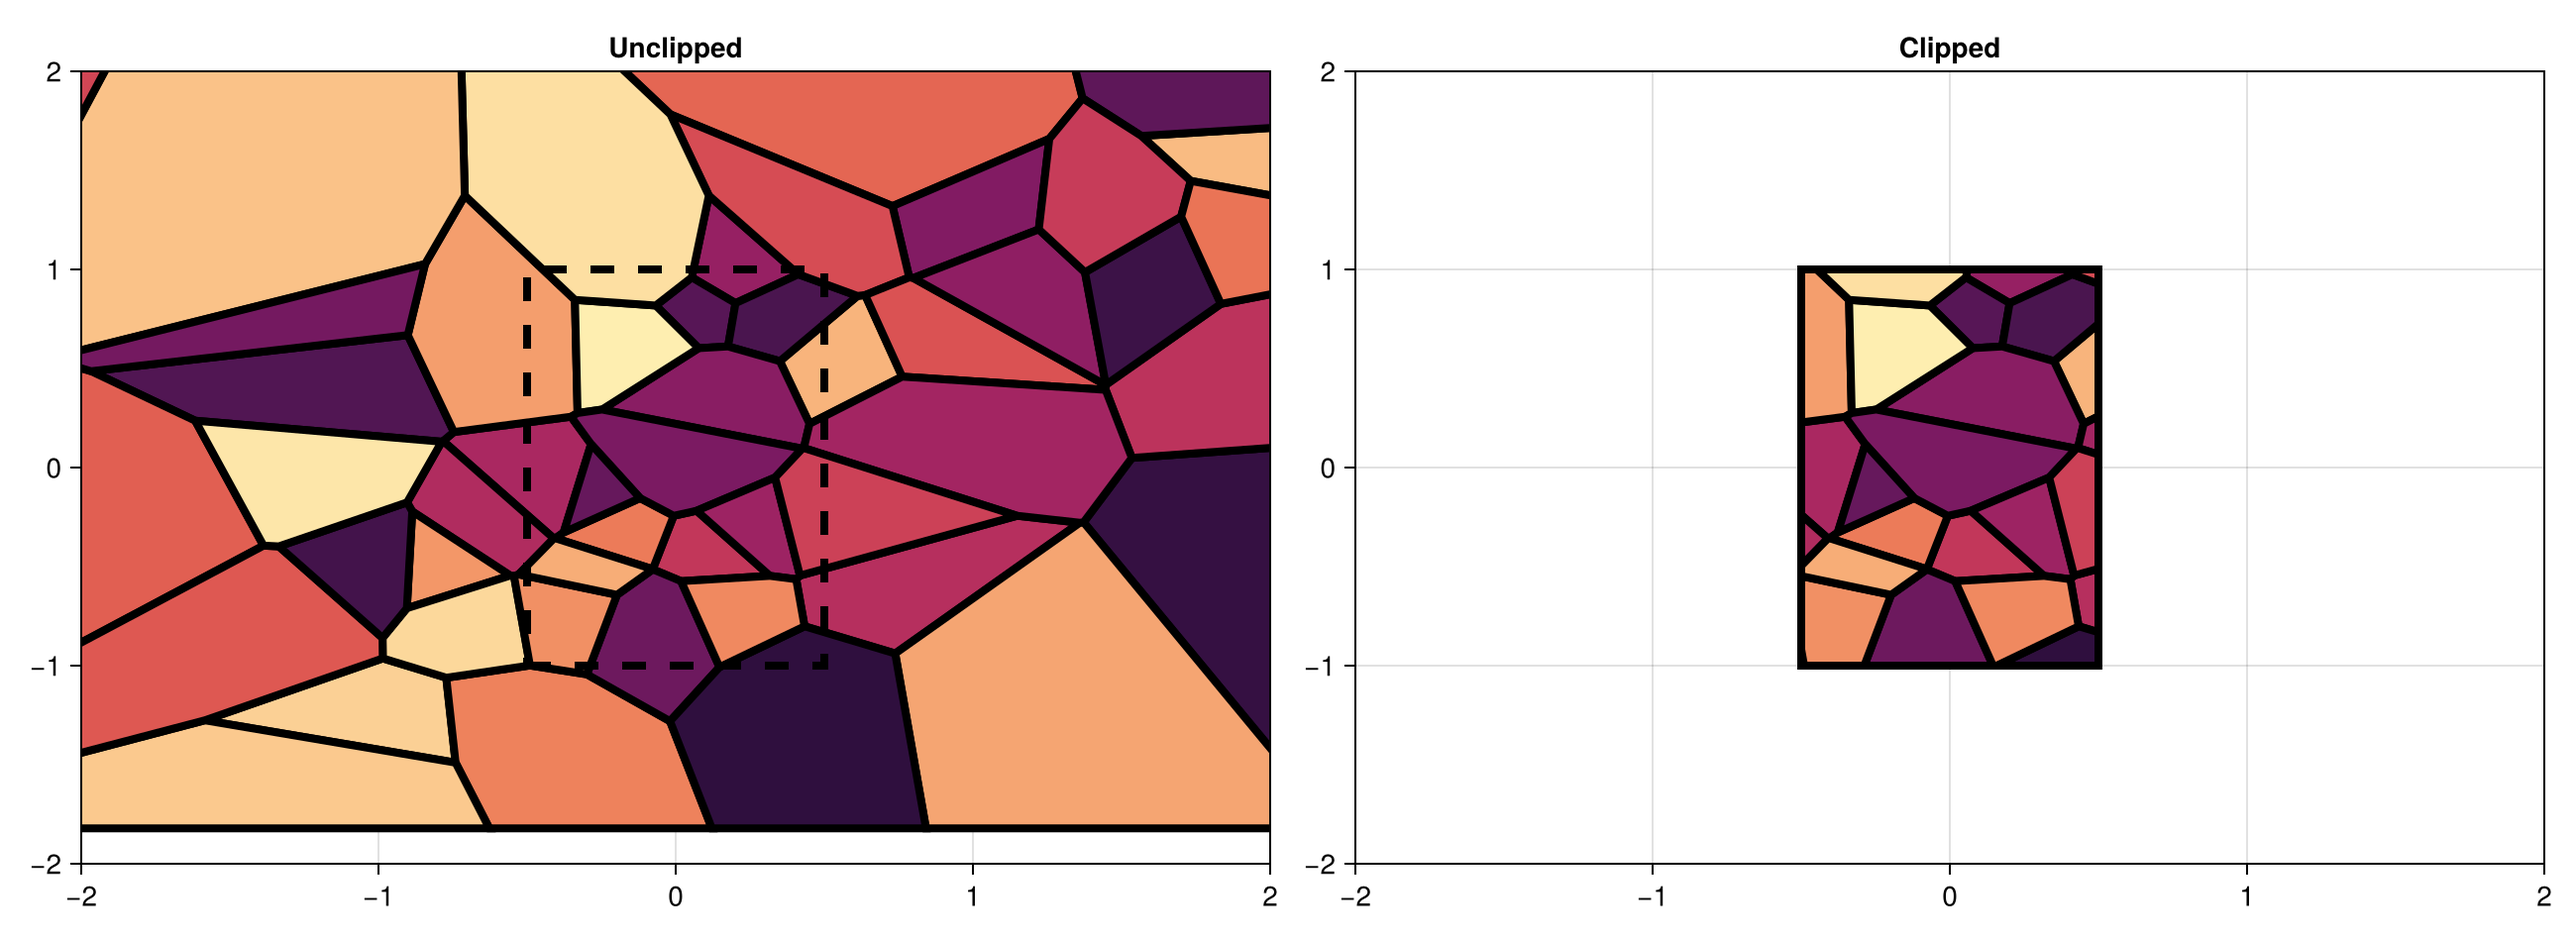
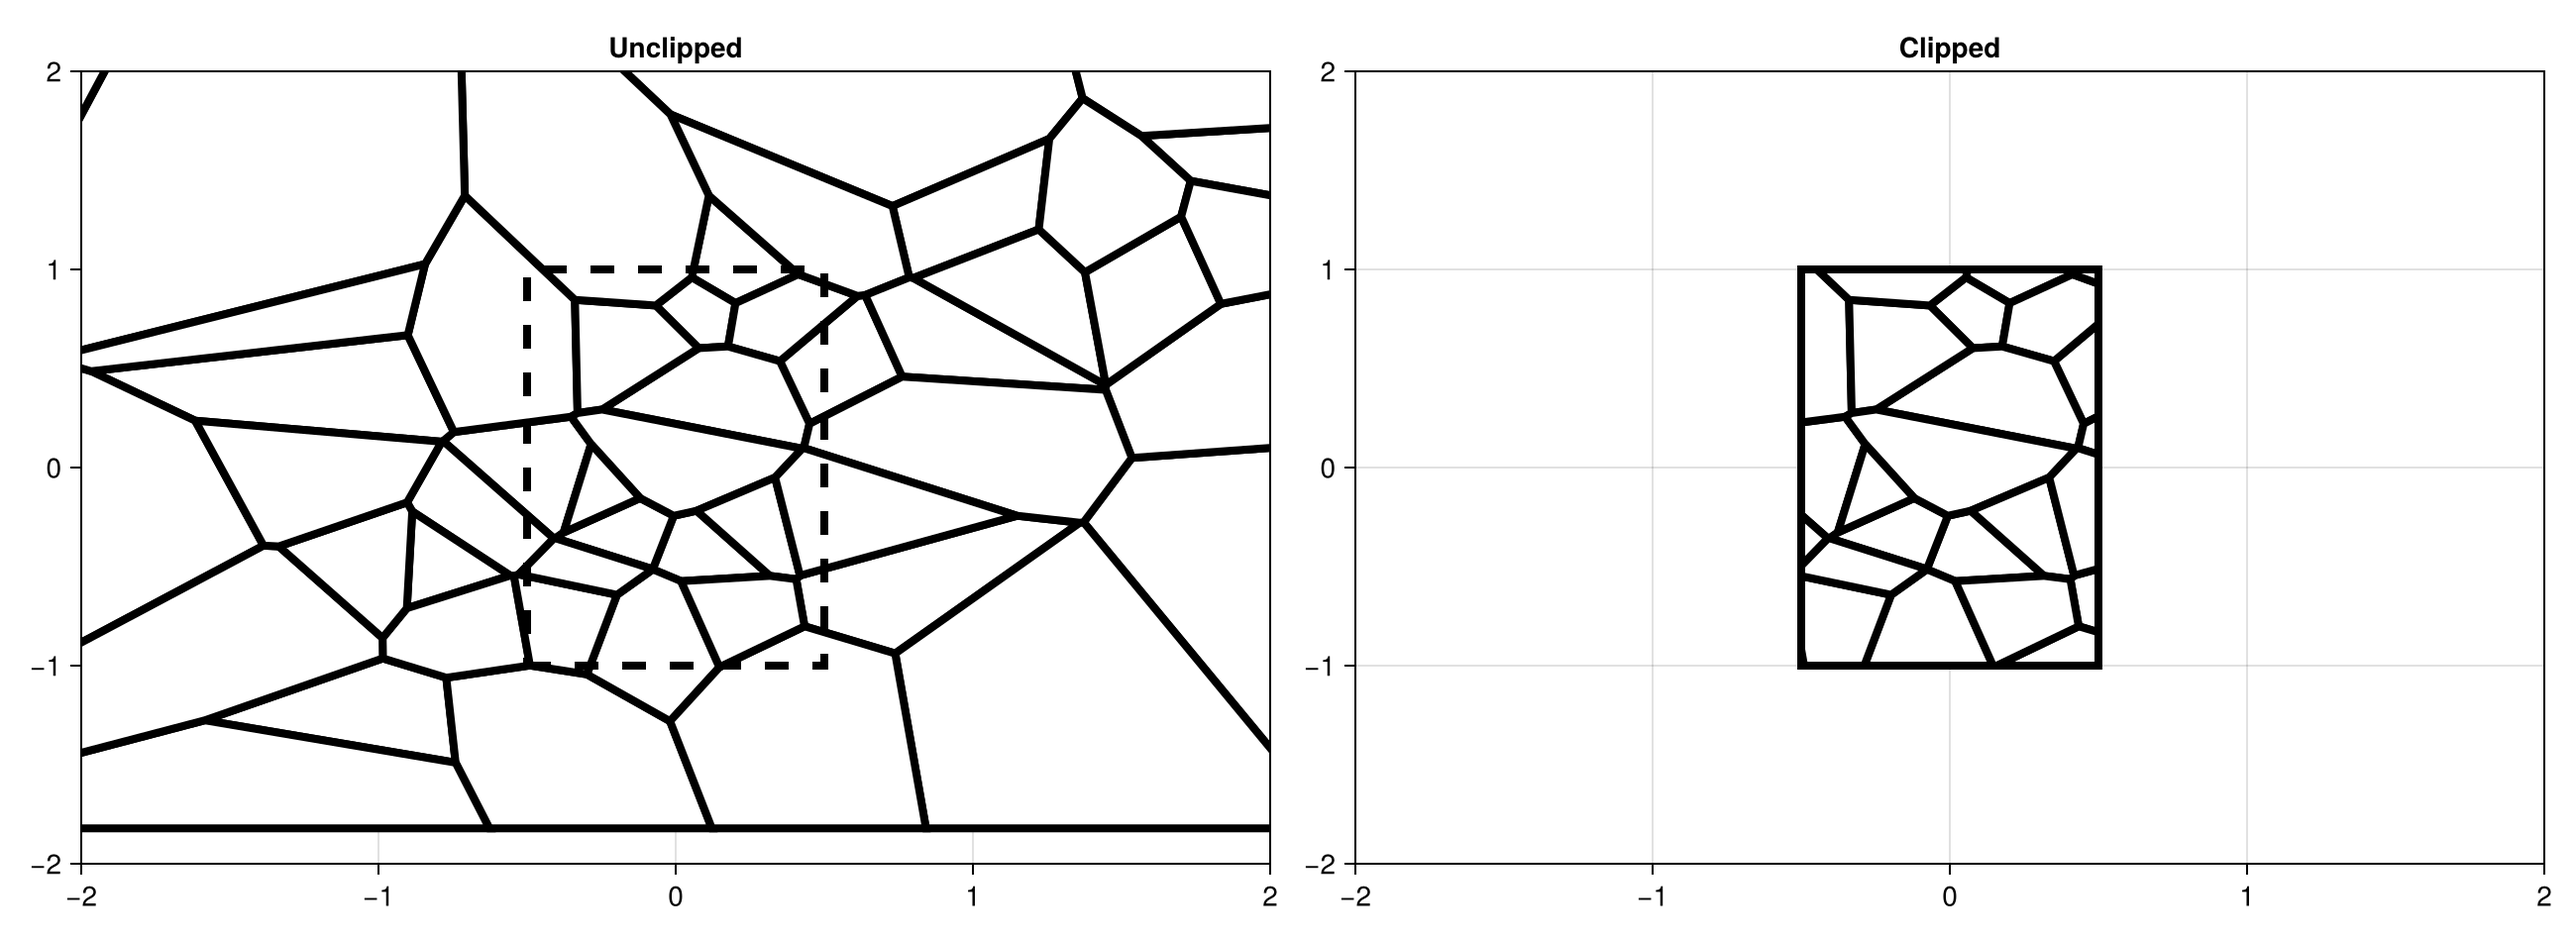
Fix some image issues from new Makie release

diff --git a/README.md b/README.md
@@ -124,7 +124,7 @@ ax = Axis(fig[2, 3]; title = "Curve-Bounded", wh...);            triplot!(ax, tr
 ax = Axis(fig[2, 4]; title = "Disjoint Curve-Bounded", wh...);   triplot!(ax, tri8)
 ax = Axis(fig[3, 1]; title = "Weighted", wh...);                 triplot!(ax, tri9)
 ax = Axis(fig[3, 2]; title = "Power Diagram", wh...);            voronoiplot!(ax, vorn10)
-ax = Axis(fig[3, 3]; title = "Generic Clipped Voronoi", wh...);  voronoiplot!(ax, vorn11)
+ax = Axis(fig[3, 3]; title = "Clipped Voronoi", wh...);          voronoiplot!(ax, vorn11, color=:white, strokewidth = 4)
 ```
 
 ![](readme.png)
